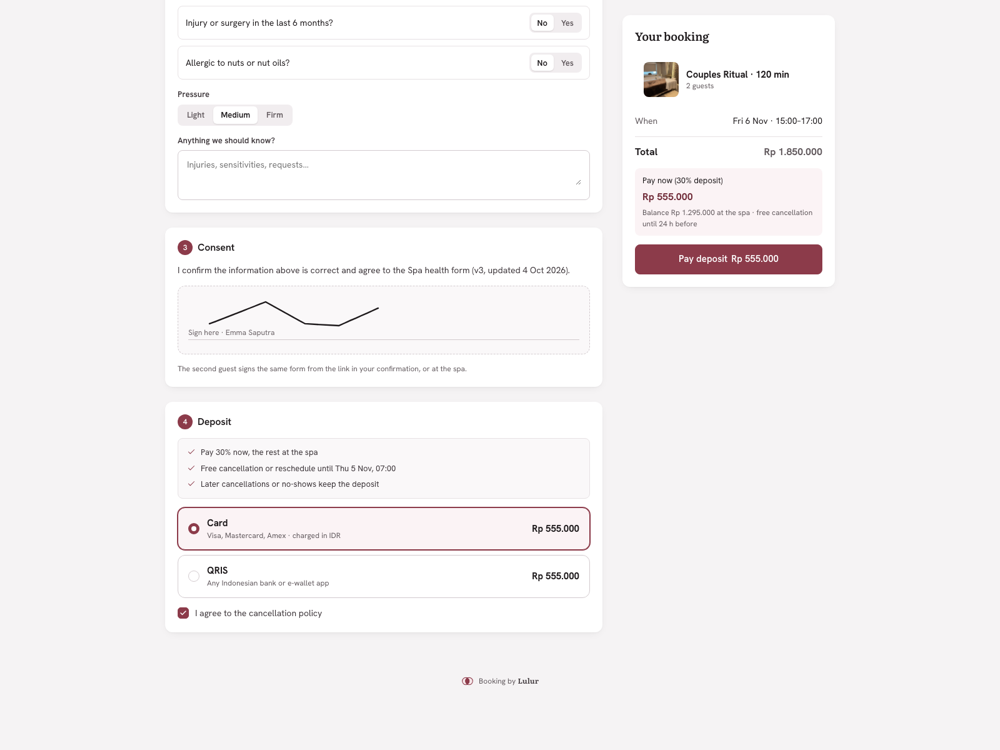
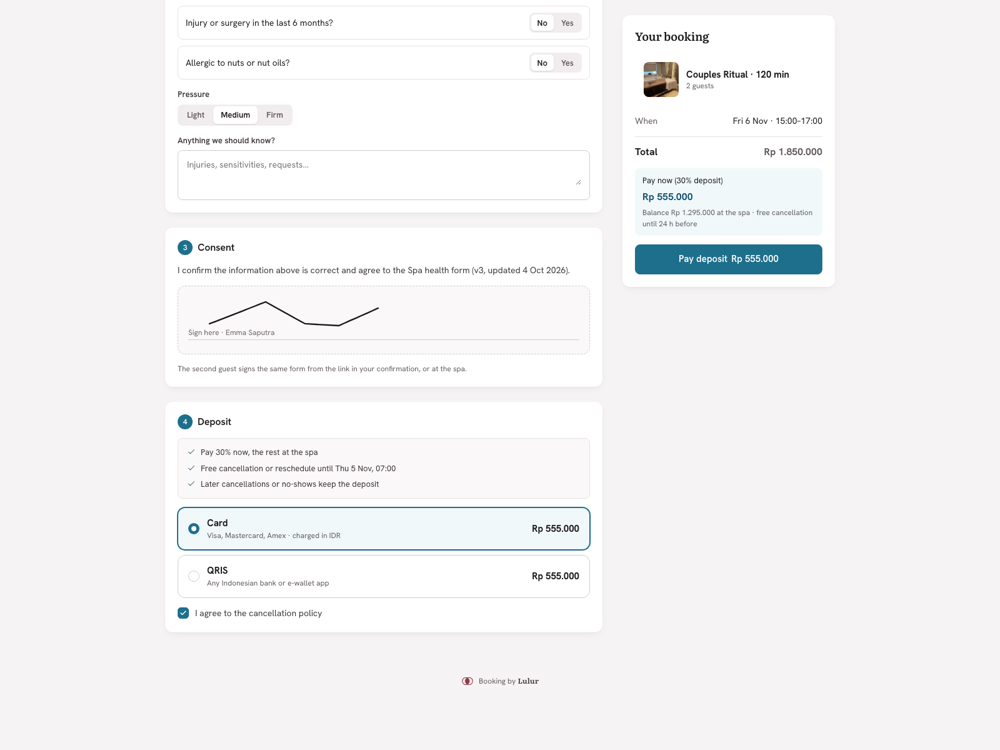
Per-tenant marks and palettes, platform mark fixed, narrow-header fix; refreshed screenshots and docs

diff --git a/resources/js/Layouts/AdminLayout.vue b/resources/js/Layouts/AdminLayout.vue
@@ -2,6 +2,7 @@
 import { Link, usePage } from '@inertiajs/vue3'
 import Icon from '@/Components/Icon.vue'
 import IconSprite from '@/Components/IconSprite.vue'
+import TenantMark from '@/Components/TenantMark.vue'
 import Toast from '@/Components/Toast.vue'
 
 const page = usePage()
@@ -25,8 +26,8 @@ const isCurrent = (m) => m.key === current()
     <div class="adm">
         <IconSprite />
         <nav class="rail" aria-label="Main">
-            <Link class="tn" :href="route('admin.calendar')" aria-label="Tirta Spa" style="color:#fff;padding:0;width:40px">
-                {{ tenant?.logo_letter ?? 'T' }}
+            <Link class="tn" :href="route('admin.calendar')" :aria-label="tenant?.name" style="color:#fff;padding:0;width:40px">
+                <TenantMark :mark="tenant?.mark" :letter="tenant?.logo_letter ?? 'T'" style="width:100%;height:100%" />
             </Link>
             <Link v-for="m in modules" :key="m.key" :href="m.href ? route(m.href) : '#'" :aria-current="isCurrent(m) ? 'page' : undefined">
                 <Icon :name="m.icon" />{{ m.label }}
@@ -40,7 +41,7 @@ const isCurrent = (m) => m.key === current()
         <div class="main">
             <header class="mtop">
                 <button class="ib" aria-label="Open navigation"><Icon name="menu" /></button>
-                <span class="tn">{{ tenant?.logo_letter ?? 'T' }}</span>
+                <TenantMark class="tn" :mark="tenant?.mark" :letter="tenant?.logo_letter ?? 'T'" />
                 <b>{{ tenant?.name }}</b>
                 <span style="margin-left:auto"><span class="av sm av-5" aria-hidden="true">{{ page.props.auth.user?.initials }}</span></span>
             </header>

diff --git a/resources/js/Components/TenantMark.vue b/resources/js/Components/TenantMark.vue
@@ -1,0 +1,26 @@
+<script setup>
+// A tenant's own mark. The root is an <i> so existing logo-square styles (.blogo i, .tn, .rail) still apply;
+// without a known mark it falls back to the tenant's letter.
+defineProps({ mark: String, letter: { type: String, default: '' } })
+</script>
+
+<template>
+    <i class="tmark" :aria-hidden="true">
+        <svg v-if="mark === 'ripple'" viewBox="0 0 24 24" fill="none" stroke="currentColor" stroke-width="1.8" stroke-linecap="round" stroke-linejoin="round">
+            <path d="M12 3.5C12 3.5 6.5 9.6 6.5 14a5.5 5.5 0 0 0 11 0C17.5 9.6 12 3.5 12 3.5Z" /><path d="M9.6 14.6a2.6 2.6 0 0 0 2.4 2" />
+        </svg>
+        <svg v-else-if="mark === 'sprig'" viewBox="0 0 24 24" fill="none" stroke="currentColor" stroke-width="1.8" stroke-linecap="round" stroke-linejoin="round">
+            <path d="M12 21V4M12 8.5 7.5 5.5M12 8.5l4.5-3M12 13l-5-3.2M12 13l5-3.2M12 17.5 6.5 14.5M12 17.5l5.5-3" />
+        </svg>
+        <svg v-else-if="mark === 'bloom'" viewBox="0 0 24 24" fill="none" stroke="currentColor" stroke-width="1.8" stroke-linecap="round" stroke-linejoin="round">
+            <ellipse cx="12" cy="7" rx="2.6" ry="4" /><ellipse cx="12" cy="7" rx="2.6" ry="4" transform="rotate(90 12 12)" />
+            <ellipse cx="12" cy="7" rx="2.6" ry="4" transform="rotate(180 12 12)" /><ellipse cx="12" cy="7" rx="2.6" ry="4" transform="rotate(270 12 12)" />
+        </svg>
+        <template v-else>{{ letter }}</template>
+    </i>
+</template>
+
+<style>
+.tmark{font-style:normal;display:inline-grid;place-items:center}
+.tmark svg{width:62%;height:62%}
+</style>

diff --git a/e2e/admin.spec.js b/e2e/admin.spec.js
@@ -62,3 +62,21 @@ test('no native form controls on any page', async ({ page }) => {
         expect(await page.evaluate(() => document.documentElement.scrollWidth > innerWidth + 1), `${url} horizontal scroll`).toBe(false)
     }
 })
+
+test('each tenant has its own mark and palette, and the platform mark keeps its own colour', async ({ page }) => {
+    const expected = { tirta: '#1e6f8c', juniper: '#3f6b4a', rona: '#7a4b8c' }
+    for (const [slug, brand] of Object.entries(expected)) {
+        await page.goto(`http://${slug}.localhost:8011/`)
+        await expect(page.locator('.blogo .tmark svg')).toBeVisible() // a drawn mark, not a letter
+        expect((await page.evaluate(() => getComputedStyle(document.documentElement).getPropertyValue('--brand').trim())).toLowerCase()).toBe(brand)
+        // the Lulur footer mark must not take the tenant colour
+        expect(await page.locator('.bfoot svg path').last().getAttribute('fill')).toBe('#8C3B4A')
+    }
+})
+
+test('the booking header stays on one line for the longest tenant name at phone width', async ({ page }, testInfo) => {
+    test.skip(testInfo.project.name !== 'phone')
+    await page.goto('http://rona.localhost:8011/')
+    const h = await page.evaluate(() => document.querySelector('.bhdr .w').getBoundingClientRect().height)
+    expect(h).toBeLessThanOrEqual(70)
+})

diff --git a/resources/js/Pages/Auth/Login.vue b/resources/js/Pages/Auth/Login.vue
@@ -1,4 +1,5 @@
 <script setup>
+import TenantMark from '@/Components/TenantMark.vue'
 import { ref } from 'vue'
 import { router } from '@inertiajs/vue3'
 import IconSprite from '@/Components/IconSprite.vue'
@@ -22,7 +23,7 @@ function submit() {
         <div style="min-height:100vh;display:grid;place-items:center;padding:24px">
             <div class="card" style="width:min(400px,100%);padding:28px;display:grid;gap:14px">
                 <div class="blogo" style="display:flex;align-items:center;gap:10px;font:600 20px var(--serif)">
-                    <i style="width:34px;height:34px;border-radius:10px;background:var(--brand);color:#fff;display:grid;place-items:center;font-style:normal;font-size:16px">{{ brand?.logo_letter ?? 'L' }}</i>
+                    <TenantMark :mark="brand?.mark" :letter="brand?.logo_letter ?? 'L'" style="width:34px;height:34px;border-radius:10px;background:var(--brand);color:#fff;font-size:16px" />
                     {{ brand?.name ?? 'Lulur' }}
                 </div>
                 <h1 style="font-size:22px">Staff sign-in</h1>

diff --git a/resources/js/Components/LulurMark.vue b/resources/js/Components/LulurMark.vue
@@ -1,12 +1,12 @@
 <script setup>
-// Platform mark: two overlapping circles (therapist ∩ room) — the lens is the free slot.
+// Platform mark (fixed rosewood: it must not take the tenant's palette): two overlapping circles (therapist ∩ room) — the lens is the free slot.
 defineProps({ size: { type: Number, default: 20 } })
 </script>
 
 <template>
     <svg :width="size" :height="size" viewBox="0 0 48 48" aria-hidden="true" style="flex:none">
-        <circle cx="18" cy="24" r="14" fill="var(--brand-soft)" stroke="var(--brand)" stroke-width="2.5" />
-        <circle cx="30" cy="24" r="14" fill="var(--brand-soft)" stroke="var(--brand)" stroke-width="2.5" />
-        <path d="M24 11.35A14 14 0 0 1 24 36.65A14 14 0 0 1 24 11.35Z" fill="var(--brand)" />
+        <circle cx="18" cy="24" r="14" fill="#F6E6E9" stroke="#8C3B4A" stroke-width="2.5" />
+        <circle cx="30" cy="24" r="14" fill="#F6E6E9" stroke="#8C3B4A" stroke-width="2.5" />
+        <path d="M24 11.35A14 14 0 0 1 24 36.65A14 14 0 0 1 24 11.35Z" fill="#8C3B4A" />
     </svg>
 </template>

diff --git a/resources/js/Layouts/BookingLayout.vue b/resources/js/Layouts/BookingLayout.vue
@@ -4,6 +4,7 @@ import Icon from '@/Components/Icon.vue'
 import IconSprite from '@/Components/IconSprite.vue'
 import Toast from '@/Components/Toast.vue'
 import LulurMark from '@/Components/LulurMark.vue'
+import TenantMark from '@/Components/TenantMark.vue'
 
 const props = defineProps({
     step: { type: Number, default: 1 }, // 1 Service, 2 Time, 3 Details
@@ -24,7 +25,7 @@ const stateOf = (s) => (s.n < props.step ? 'done' : s.n === props.step ? 'on' : 
         <header class="bhdr">
             <div class="w">
                 <Link class="blogo" :href="route('booking.index')">
-                    <i>{{ brand.logo_letter ?? 'T' }}</i>{{ brand.name ?? 'Spa' }}
+                    <TenantMark :mark="brand.mark" :letter="brand.logo_letter ?? 'T'" />{{ brand.name ?? 'Spa' }}
                 </Link>
                 <nav class="steps" aria-label="Booking steps">
                     <template v-for="(s, i) in steps" :key="s.n">

diff --git a/resources/js/Pages/Admin/Reports.vue b/resources/js/Pages/Admin/Reports.vue
@@ -17,7 +17,7 @@ function apply() { router.get(route('admin.reports'), { from: from.value, to: to
 
 const fmt = (m) => (props.currency === 'IDR' ? 'Rp ' + m.toLocaleString('id-ID') : '$' + (m / 100).toFixed(2))
 const hours = (min) => `${Math.floor(min / 60)} h ${String(min % 60).padStart(2, '0')}`
-const heatColor = (n) => ['', 'var(--brand-tint)', 'var(--brand-soft)', '#F0CFD6', 'var(--brand-light)', 'var(--brand-mid)'][Math.min(n, 5)]
+const heatColor = (n) => ['', 'var(--brand-tint)', 'var(--brand-soft)', 'color-mix(in srgb, var(--brand-soft) 55%, var(--brand-light))', 'var(--brand-light)', 'var(--brand-mid)'][Math.min(n, 5)]
 const hoursRange = Array.from({ length: 12 }, (_, i) => 9 + i)
 const maxRevenue = Math.max(1, ...props.revenue_by_service.map((r) => r.revenue))
 </script>

diff --git a/resources/js/Pages/Booking/Manage.vue b/resources/js/Pages/Booking/Manage.vue
@@ -1,4 +1,5 @@
 <script setup>
+import TenantMark from '@/Components/TenantMark.vue'
 import { ref } from 'vue'
 import { router, usePage } from '@inertiajs/vue3'
 import Icon from '@/Components/Icon.vue'
@@ -87,7 +88,7 @@ function initPad(el) {
         <IconSprite />
         <header class="bhdr">
             <div class="w">
-                <a class="blogo" href="/"><i>{{ brand.logo_letter }}</i>{{ brand.name }}</a>
+                <a class="blogo" href="/"><TenantMark :mark="brand.mark" :letter="brand.logo_letter" />{{ brand.name }}</a>
                 <div class="r"><a class="btn ghost" href="/">Book another visit</a></div>
             </div>
         </header>

diff --git a/resources/css/app.css b/resources/css/app.css
@@ -578,3 +578,8 @@ table.heat td:first-child{background:none;text-align:left;padding-right:8px;whit
 .toast.ok .icon:first-child{color:#7ee2ab}.toast.bad .icon:first-child{color:#ffb4ab}
 .toast .x{margin-left:6px;border:0;background:none;color:#fff;opacity:.7;display:grid;place-items:center}
 @media (max-width:900px){.toastw{bottom:96px}}
+
+/* narrow header: keep the tenant name on one line */
+.blogo{white-space:nowrap;min-width:0}
+.blogo i{flex:none}
+@media (max-width:440px){.blogo{font-size:17px;gap:8px}.bhdr .w{gap:10px}.steps{gap:5px}.steps .sepl{width:10px;flex:none}}

diff --git a/database/seeders/DatabaseSeeder.php b/database/seeders/DatabaseSeeder.php
@@ -71,7 +71,7 @@ class DatabaseSeeder extends Seeder
             'plan' => 'growth',
             'code_prefix' => 'TRT',
             'branding' => [
-                'logo_letter' => 'T',
+                'logo_letter' => 'T', 'mark' => 'ripple', 'palette' => 'lagoon',
                 'hero' => '/img/p-hero.jpg',
                 'tagline' => 'Balinese rituals in the rice fields of Ubud',
                 'rating' => '4.9',
@@ -504,7 +504,7 @@ class DatabaseSeeder extends Seeder
             'id' => $this->uid(), 'slug' => 'juniper', 'name' => 'Juniper Massage',
             'currency' => 'USD', 'default_timezone' => 'America/New_York', 'plan' => 'starter',
             'code_prefix' => 'JNP',
-            'branding' => ['logo_letter' => 'J', 'hero' => '/img/stone.jpg', 'tagline' => 'Deep work for desk shoulders — Center City, Philadelphia', 'rating' => '4.8', 'reviews' => '412', 'region' => 'Philadelphia, US'],
+            'branding' => ['logo_letter' => 'J', 'mark' => 'sprig', 'palette' => 'evergreen', 'hero' => '/img/stone.jpg', 'tagline' => 'Deep work for desk shoulders — Center City, Philadelphia', 'rating' => '4.8', 'reviews' => '412', 'region' => 'Philadelphia, US'],
             'settings' => [
                 'booking_policy' => ['deposit_percent' => 0, 'cancel_window_hours' => 12, 'no_show_fee_percent' => 50, 'saved_card_mode' => 'required'],
                 'review_url' => 'https://reviews.example/juniper',
@@ -556,7 +556,7 @@ class DatabaseSeeder extends Seeder
             'id' => $this->uid(), 'slug' => 'rona', 'name' => 'Rona Aesthetic',
             'currency' => 'IDR', 'default_timezone' => 'Asia/Jakarta', 'plan' => 'growth',
             'code_prefix' => 'RNA',
-            'branding' => ['logo_letter' => 'R', 'hero' => '/img/facial.jpg', 'tagline' => 'Klinik estetika dengan consent digital', 'rating' => '4.9', 'reviews' => '638', 'region' => 'Jakarta, Indonesia'],
+            'branding' => ['logo_letter' => 'R', 'mark' => 'bloom', 'palette' => 'plum', 'hero' => '/img/facial.jpg', 'tagline' => 'Klinik estetika dengan consent digital', 'rating' => '4.9', 'reviews' => '638', 'region' => 'Jakarta, Indonesia'],
             'settings' => [
                 'booking_policy' => ['deposit_percent' => 50, 'cancel_window_hours' => 48, 'no_show_fee_percent' => 100, 'saved_card_mode' => 'optional'],
                 'review_url' => 'https://reviews.example/rona',

diff --git a/app/Support/BrandPalette.php b/app/Support/BrandPalette.php
@@ -1,0 +1,29 @@
+<?php
+
+namespace App\Support;
+
+/**
+ * Named accent palettes for tenants. A tenant picks one with branding.palette; the booking pages
+ * and admin then re-skin through the --brand-* CSS variables (Lulur's own default is rosewood).
+ */
+class BrandPalette
+{
+    public const PALETTES = [
+        'rosewood' => ['brand' => '#8C3B4A', 'brand-strong' => '#722E3B', 'brand-soft' => '#F6E6E9', 'brand-tint' => '#FBF3F5', 'brand-border' => '#E9C9D0', 'brand-mid' => '#B5596A', 'brand-light' => '#E3B4BE'],
+        'lagoon' => ['brand' => '#1E6F8C', 'brand-strong' => '#165770', 'brand-soft' => '#E1F0F5', 'brand-tint' => '#F1F8FA', 'brand-border' => '#BBD9E4', 'brand-mid' => '#4A93AE', 'brand-light' => '#A8CFDD'],
+        'evergreen' => ['brand' => '#3F6B4A', 'brand-strong' => '#2F5239', 'brand-soft' => '#E3EEE5', 'brand-tint' => '#F2F7F3', 'brand-border' => '#C4D8C8', 'brand-mid' => '#6A9475', 'brand-light' => '#AFCBB6'],
+        'plum' => ['brand' => '#7A4B8C', 'brand-strong' => '#5F3A6E', 'brand-soft' => '#EDE5F2', 'brand-tint' => '#F7F3FA', 'brand-border' => '#D6C6E1', 'brand-mid' => '#9B6FAD', 'brand-light' => '#CDB4D9'],
+    ];
+
+    /** CSS for :root, or '' for the default palette. */
+    public static function css(?string $name): string
+    {
+        $p = self::PALETTES[$name ?? ''] ?? null;
+        if (! $p || $name === 'rosewood') {
+            return '';
+        }
+        $vars = collect($p)->map(fn ($v, $k) => "--{$k}:{$v}")->implode(';');
+
+        return ":root{{$vars};--c-dep-bg:{$p['brand-tint']};--c-dep-bd:{$p['brand']};--c-dep-tx:{$p['brand-strong']}}";
+    }
+}

diff --git a/app/Http/Middleware/HandleInertiaRequests.php b/app/Http/Middleware/HandleInertiaRequests.php
@@ -43,6 +43,7 @@ class HandleInertiaRequests extends Middleware
                 'timezone' => $tenant->default_timezone,
                 'branding' => $tenant->branding,
                 'logo_letter' => $tenant->branding['logo_letter'] ?? mb_substr($tenant->name, 0, 1),
+                'mark' => $tenant->branding['mark'] ?? null,
                 'locations' => $tenant->locations->map(fn ($l) => [
                     'id' => $l->id, 'name' => $l->name, 'slug' => $l->slug,
                 ])->values(),
